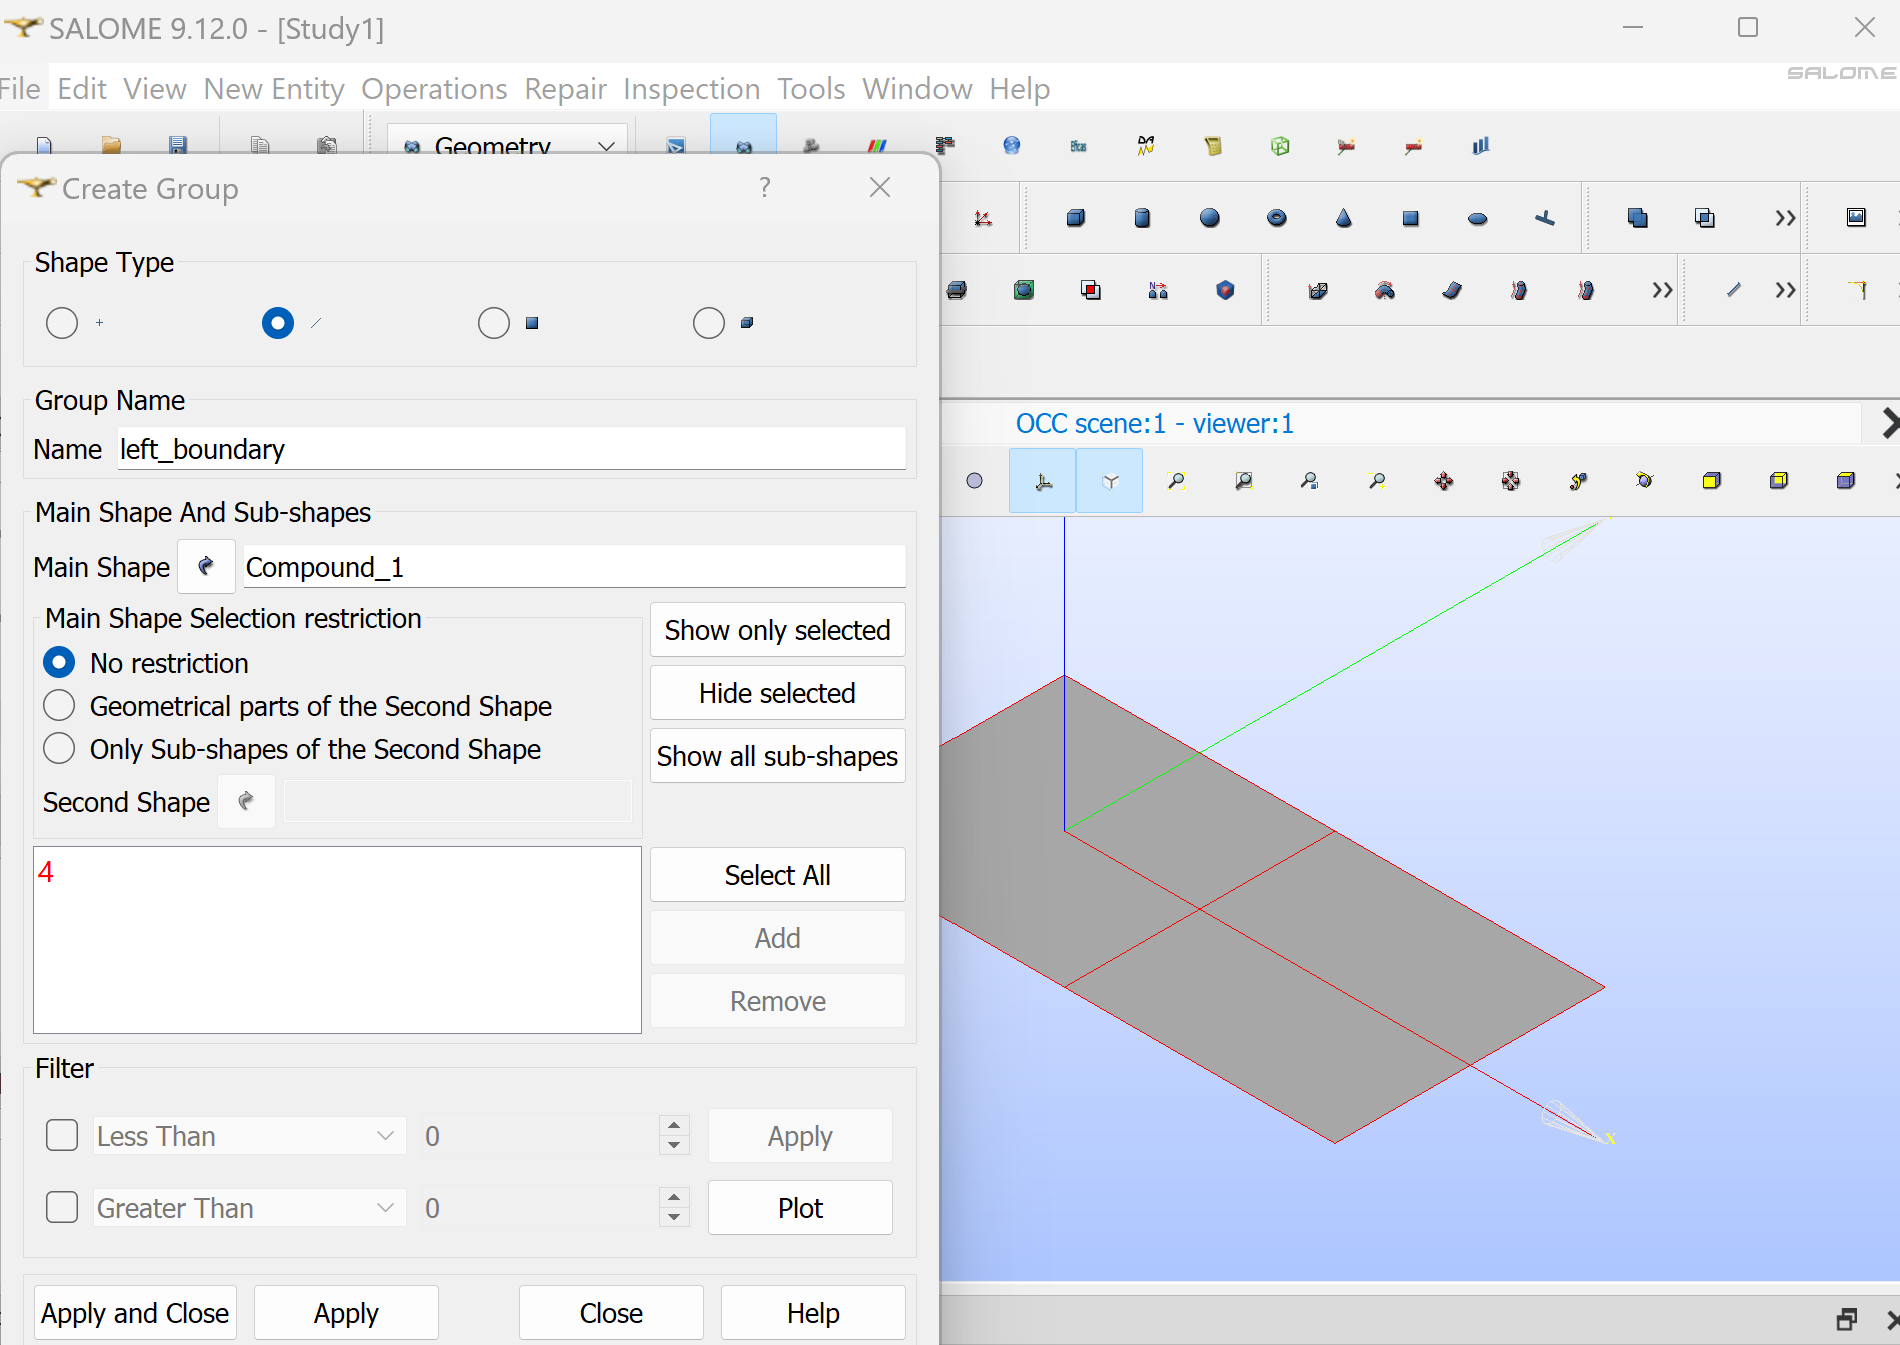
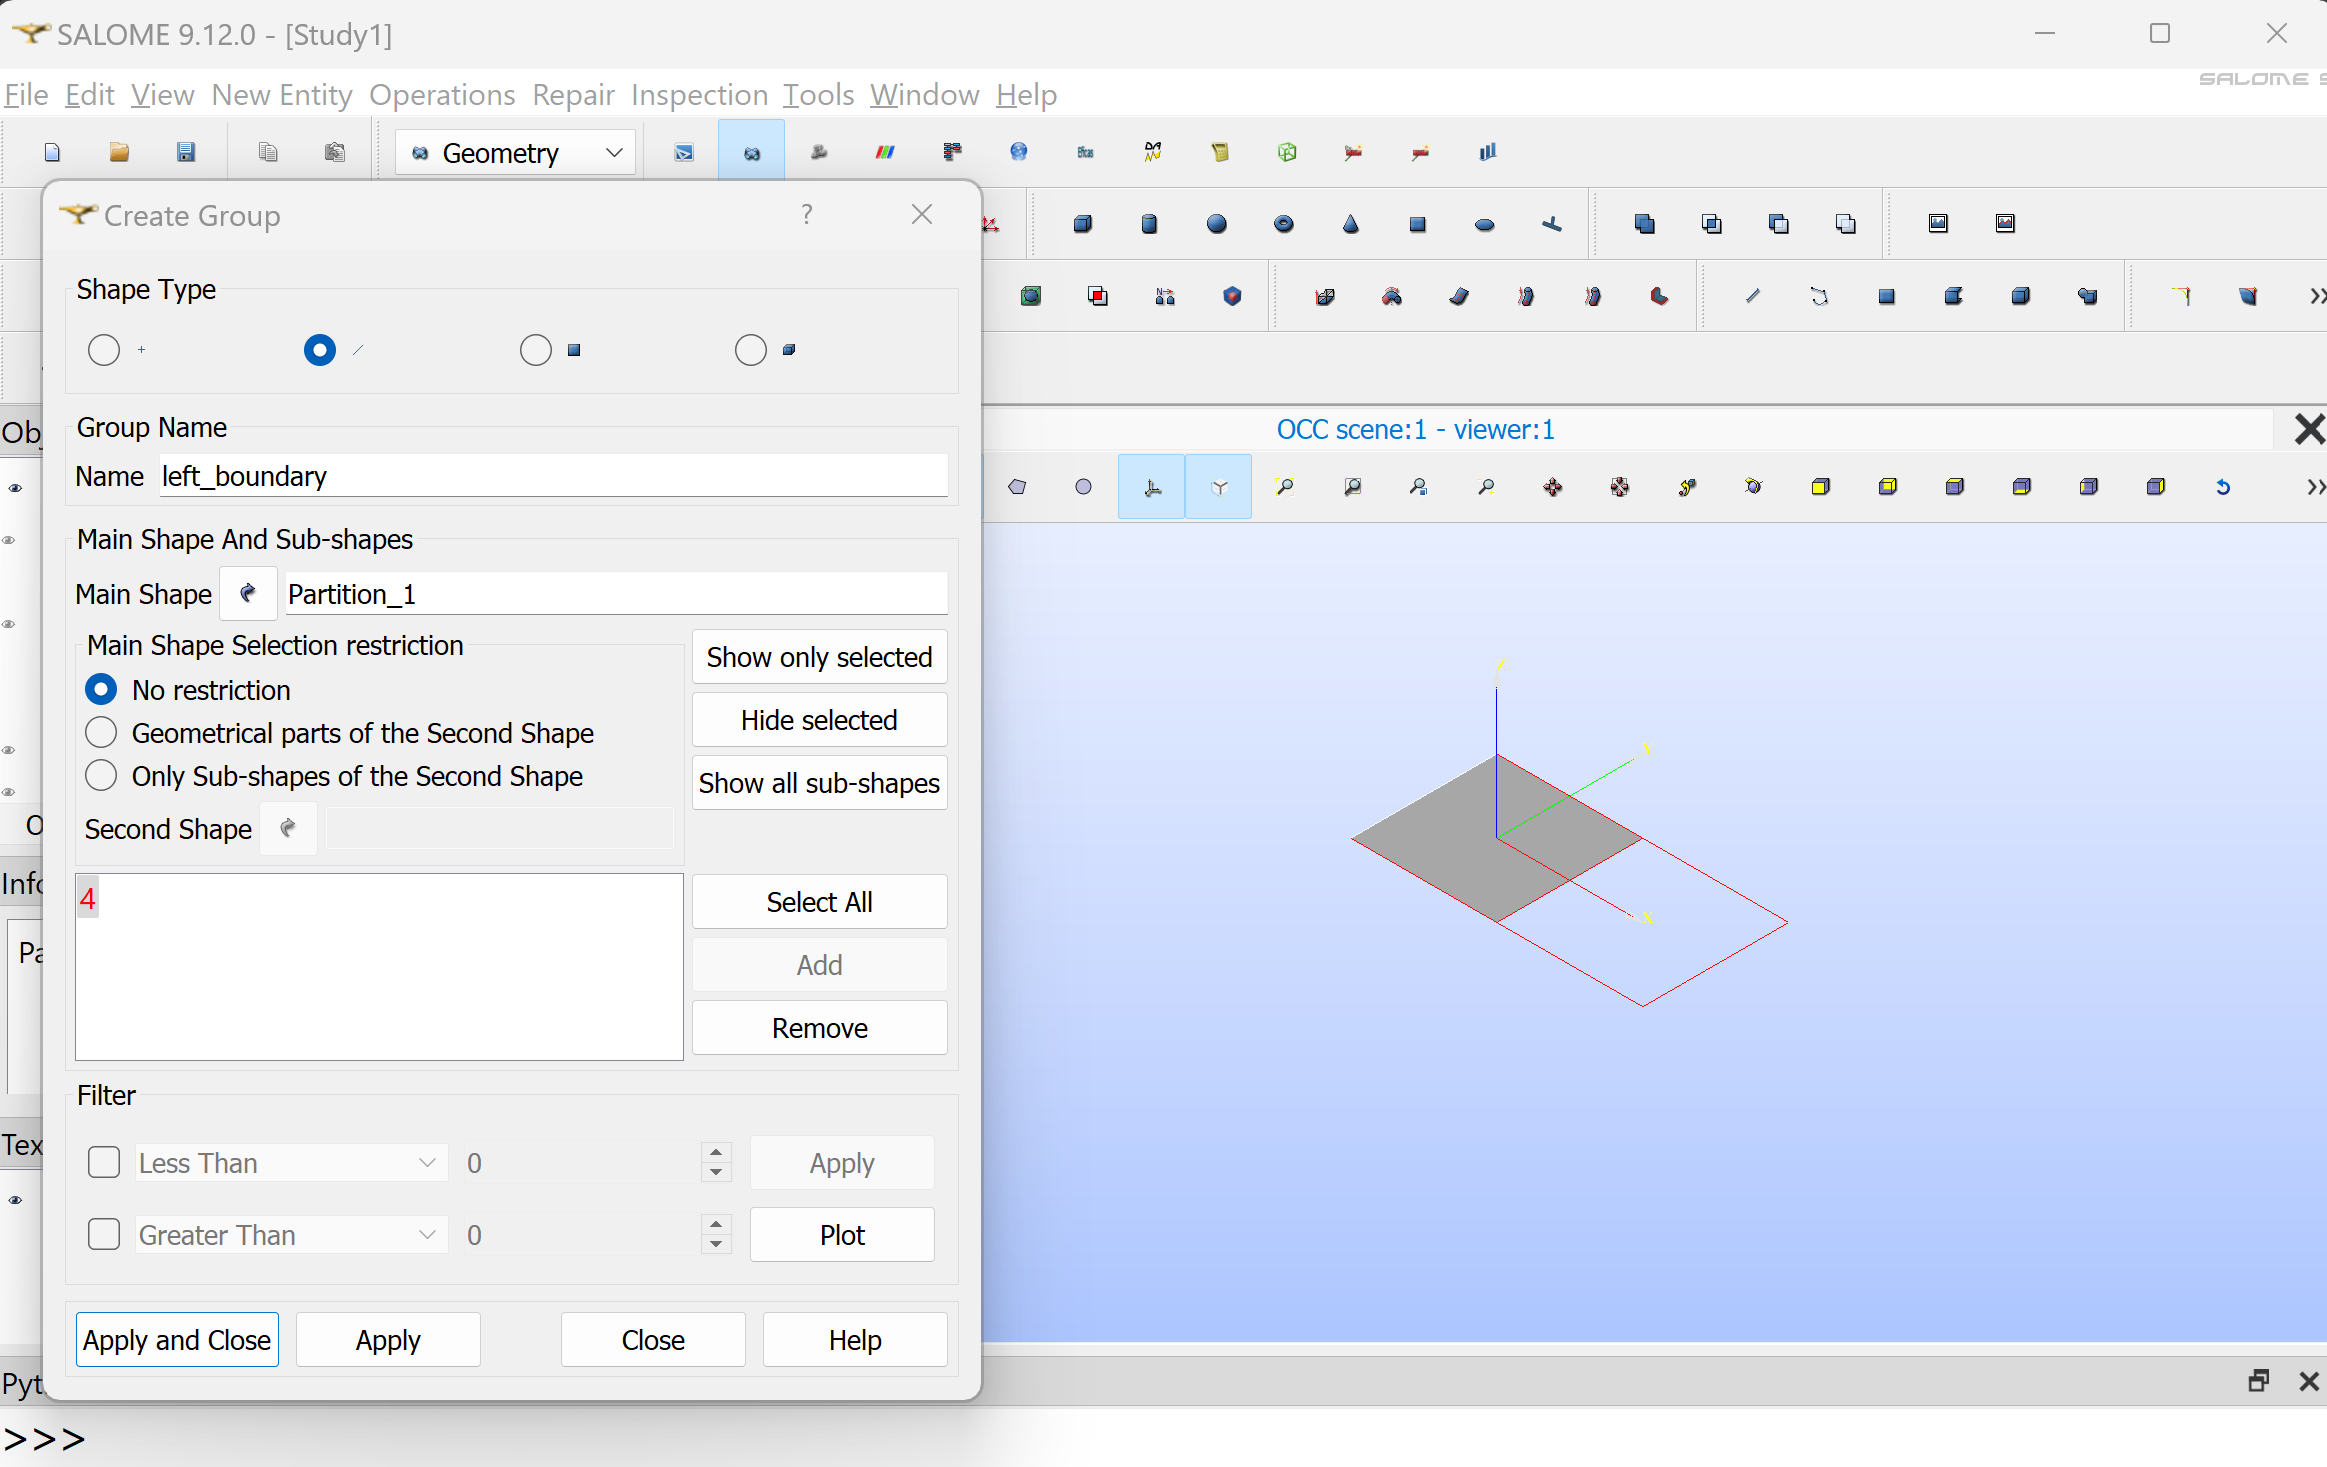
added partition to guide + FESTIM script

diff --git a/docs/source/userguide/mesh.rst b/docs/source/userguide/mesh.rst
@@ -142,7 +142,7 @@ Click on the left square and click "Add" (2 should appear in the white window). 
     :width: 400
     :align: center
 
-17. Convert mesh with meshio
+17. Convert mesh with meshio (at the time or writing we are using meshio 5.3)
 
 .. code-block:: bash
 
@@ -217,6 +217,45 @@ Here, the left volume is tagged with ID 6, the right boundary is tagged with ID 
 18. Inspect the produced XDMF files with Paraview. The file mesh_domains.xdmf should look like:
 
 .. thumbnail:: ../images/salome_guide_13.png
+    :width: 400
+    :align: center
+
+
+19. Test the mesh in FESTIM by running:
+
+.. code-block:: python
+
+    import festim as F
+
+    model = F.Simulation()
+
+    model.mesh = F.MeshFromXDMF(
+        volume_file="mesh_domains.xdmf", boundary_file="mesh_boundaries.xdmf"
+    )
+
+    model.materials = [F.Material(D_0=1, E_D=0, id=6), F.Material(D_0=5, E_D=0, id=7)]
+
+    model.boundary_conditions = [
+        F.DirichletBC(field="solute", value=1, surfaces=[8]),
+        F.DirichletBC(field="solute", value=0, surfaces=[9]),
+    ]
+
+    model.T = F.Temperature(823)
+
+    model.exports = [F.XDMFExport("solute")]
+
+    model.settings = F.Settings(
+        absolute_tolerance=1e-10,
+        relative_tolerance=1e-10,
+        transient=False,
+    )
+
+    model.initialise()
+    model.run()
+
+20. The simulation should run without errors. The solute field can be visualised with Paraview.
+
+.. thumbnail:: ../images/salome_guide_14.png
     :width: 400
     :align: center
 
